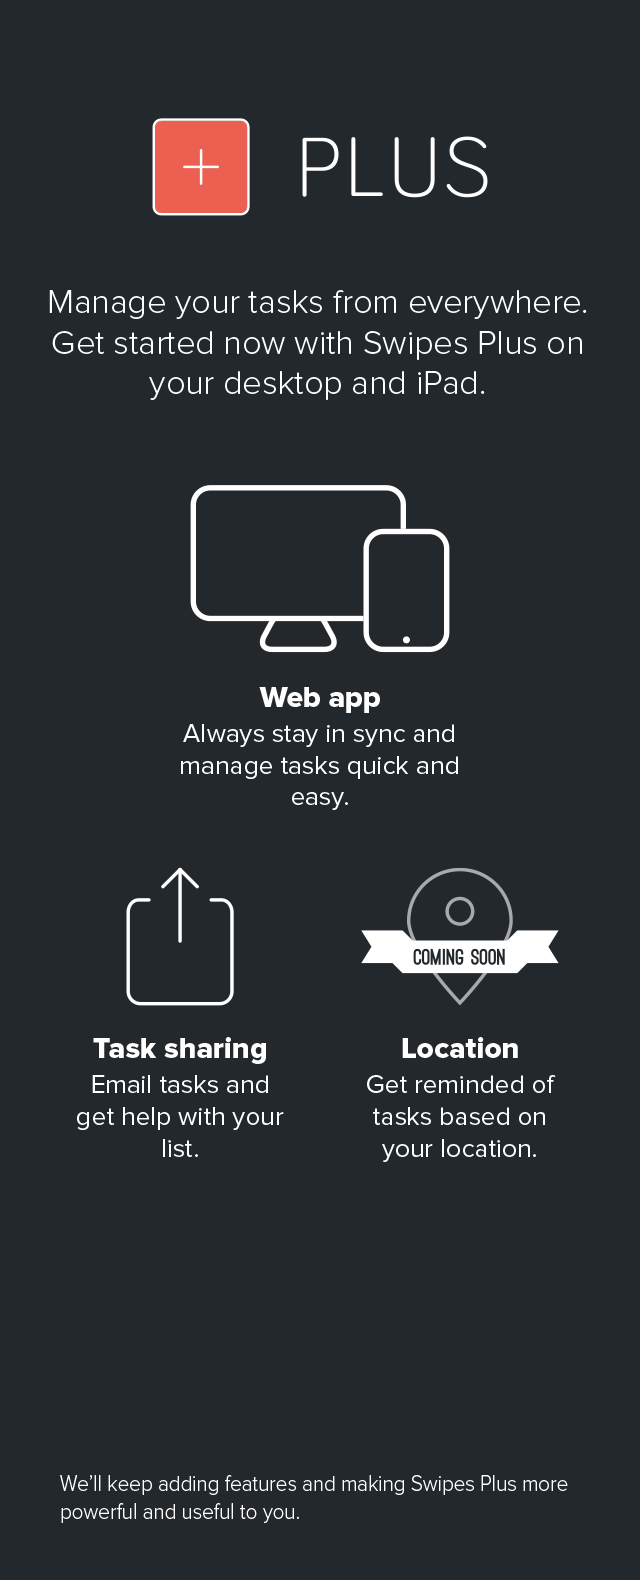
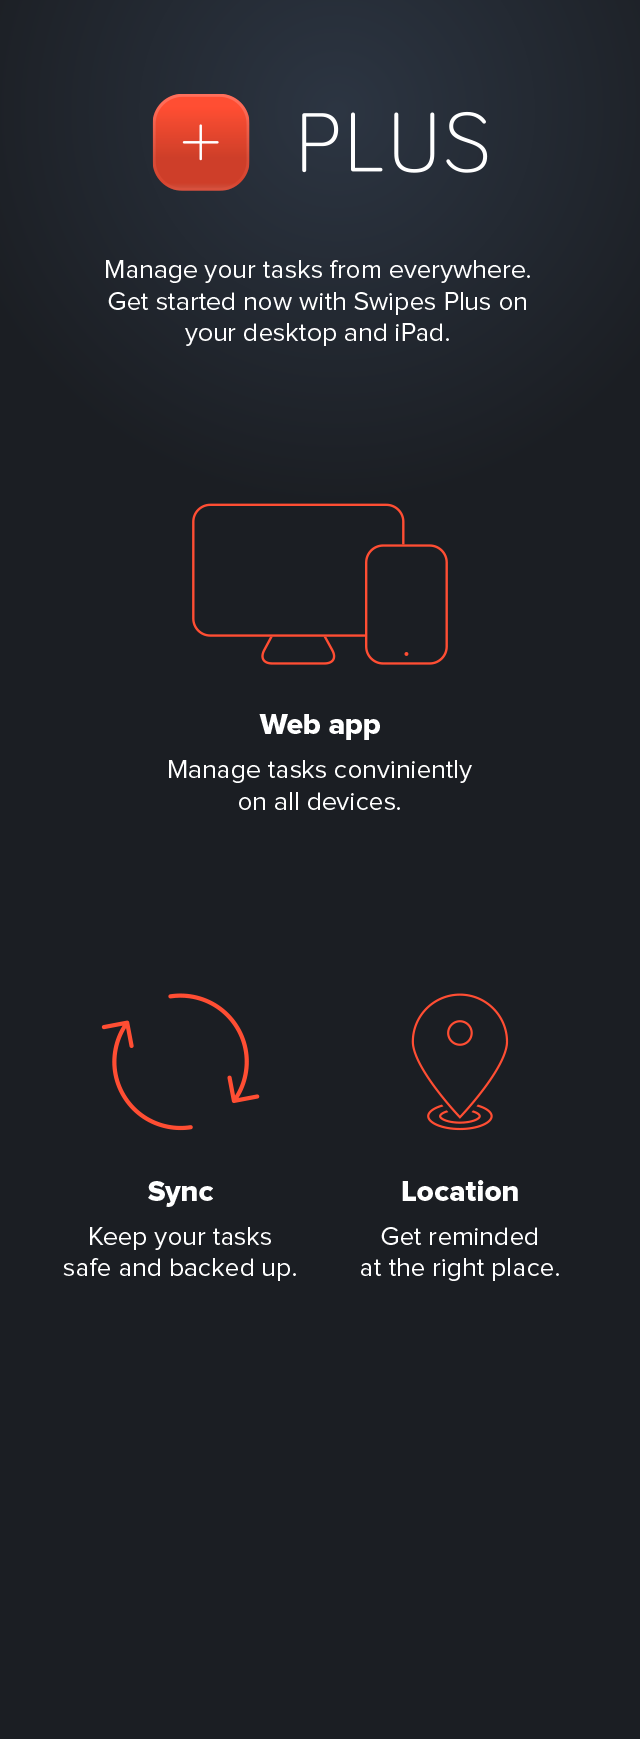
Upgrade controller new image + gradient button

diff --git a/Swipes/Classes/ViewControllers/Menu/MenuViewController.m b/Swipes/Classes/ViewControllers/Menu/MenuViewController.m
@@ -23,6 +23,7 @@
 
 #import "KPParseCoreData.h"
 #import "PlusAlertView.h"
+#import "NotificationHandler.h"
 
 #define kSettingsBlurColor retColor(gray(230, 0.5),gray(50, 0.4))
 #define kMenuButtonStartTag 4123
@@ -255,6 +256,46 @@
             
             break;
         }
+        case KPMenuButtonLocation:{
+            BOOL hasLocationOn = [(NSNumber*)[kSettings valueForSetting:SettingLocation] boolValue];
+            if(!hasLocationOn && ![kUserHandler isPlus]){
+                [ANALYTICS pushView:@"Location plus popup"];
+                [ANALYTICS tagEvent:@"Teaser Shown" options:@{@"Reference From":@"Location in Settings"}];
+                PlusAlertView *alert = [PlusAlertView alertWithFrame:self.view.bounds message:@"Location reminders is a Swipes Plus feature. Get reminded at the right place and time." block:^(BOOL succeeded, NSError *error) {
+                    [ANALYTICS popView];
+                    [BLURRY dismissAnimated:YES];
+                    if(succeeded){
+                        [ROOT_CONTROLLER upgrade];
+                    }
+                }];
+                BLURRY.blurryTopColor = kSettingsBlurColor;
+                [BLURRY showView:alert inViewController:self];
+            }
+            else{
+                UIColor *lampColor = hasLocationOn ? kLampOffColor : kLampOnColor;
+                NSNumber *newSettingValue = hasLocationOn ? @NO : @YES;
+                if(hasLocationOn){
+                    KPAlert *alert = [KPAlert alertWithFrame:self.view.bounds title:@"Turn off location" message:@"Location reminders won't be working." block:^(BOOL succeeded, NSError *error) {
+                        [BLURRY dismissAnimated:YES];
+                        if(succeeded){
+                            [NOTIHANDLER stopLocationServices];
+                            [kSettings setValue:newSettingValue forSetting:SettingLocation];
+                            [sender setLampColor:lampColor];
+                        }
+                    }];
+                    BLURRY.blurryTopColor = kSettingsBlurColor;
+                    [BLURRY showView:alert inViewController:self];
+                }
+                else{
+                    StartLocationResult result = [NOTIHANDLER startLocationServices];
+                    if(result == LocationStarted){
+                        [kSettings setValue:newSettingValue forSetting:SettingLocation];
+                        [sender setLampColor:lampColor];
+                    }
+                }
+            }
+            break;
+        }
         case KPMenuButtonSnoozes:{
             SnoozesViewController *snoozeVC = [[SnoozesViewController alloc] init];
             [self pushViewController:snoozeVC animated:YES];
@@ -353,6 +394,7 @@
             [self renderSubviews];
             break;
         }
+        
         default:
             break;
     }
@@ -449,7 +491,8 @@
 -(UIButton*)buttonForMenuButton:(KPMenuButtons)menuButton{
     MenuButton *button = [[MenuButton alloc] initWithFrame:[self frameForButton:menuButton] title:[self titleForMenuButton:menuButton] image:[self imageForMenuButton:menuButton highlighted:NO] highlightedImage:[self imageForMenuButton:menuButton highlighted:YES]];
     if(menuButton == KPMenuButtonNotifications || menuButton == KPMenuButtonLocation){
-        BOOL hasNotificationsOn = [(NSNumber*)[kSettings valueForSetting:SettingNotifications] boolValue];
+        KPSettings setting = (menuButton == KPMenuButtonNotifications) ? SettingNotifications : SettingLocation;
+        BOOL hasNotificationsOn = [(NSNumber*)[kSettings valueForSetting:setting] boolValue];
         UIColor *lampColor = hasNotificationsOn ? kLampOnColor : kLampOffColor;
         [button setLampColor:lampColor];
     }

diff --git a/Swipes/Classes/ViewControllers/Upgrade/UpgradeViewController.m b/Swipes/Classes/ViewControllers/Upgrade/UpgradeViewController.m
@@ -17,15 +17,15 @@
 #import "SlowHighlightIcon.h"
 #define kCloseButtonSize 60
 #define kLogoTopMargin 35
-#define kSubscribeButtonWidth 120
+#define kSubscribeButtonWidth 123
 #define kSubscribeButtonHeight 60
 #define kSubButtonSubHeight 35
-#define kSubButtonCornerRadius 6
-#define kSubButtonFont KP_REGULAR(21)
+#define kSubButtonCornerRadius 1
+#define kSubButtonFont KP_REGULAR(19)
 #define kSubButtonSubFont KP_REGULAR(14)
 #define kSubButtonTitleTopInset 18
-#define kSubButtonY 600
-
+#define kSubButtonY 700
+#define kRestoreSpacing 30
 
 
 @interface UpgradeViewController ()
@@ -56,11 +56,13 @@
     
     
     
+    UIImage *buttonBackground = [[UIImage imageNamed:@"btn-plus-background"] resizableImageWithCapInsets:UIEdgeInsetsMake(2, 2, 2, 2)];
+    
     CGFloat subButtonSpacing = ((scrollView.frame.size.width-(2*kSubscribeButtonWidth))/3);
     KPSubtitleButton *monthButton = [[KPSubtitleButton alloc] initWithFrame:CGRectMake(subButtonSpacing, kSubButtonY, kSubscribeButtonWidth, kSubscribeButtonHeight)];
     CGRectSetHeight(monthButton.subtitleLabel, kSubButtonSubHeight);
-    [monthButton setBackgroundImage:[color(235, 96, 80, 1) image] forState:UIControlStateNormal];
-    monthButton.layer.cornerRadius = kSubButtonCornerRadius;
+    [monthButton setBackgroundImage:buttonBackground forState:UIControlStateNormal];
+    //monthButton.layer.cornerRadius = kSubButtonCornerRadius;
     monthButton.titleLabel.font = kSubButtonFont;
     monthButton.subtitleLabel.font = kSubButtonSubFont;
     monthButton.titleEdgeInsets = UIEdgeInsetsMake(kSubButtonTitleTopInset, 0, 0, 0);
@@ -73,8 +75,8 @@
     KPSubtitleButton *yearButton = [[KPSubtitleButton alloc] initWithFrame:CGRectMake(2*subButtonSpacing + kSubscribeButtonWidth, kSubButtonY, kSubscribeButtonWidth, kSubscribeButtonHeight)];
     yearButton.subtitleLabel.text = @"yearly";
     CGRectSetHeight(yearButton.subtitleLabel, kSubButtonSubHeight);
-    [yearButton setBackgroundImage:[color(235, 96, 80, 1) image] forState:UIControlStateNormal];
-    yearButton.layer.cornerRadius = kSubButtonCornerRadius;
+    [yearButton setBackgroundImage:buttonBackground forState:UIControlStateNormal];
+    //yearButton.layer.cornerRadius = kSubButtonCornerRadius;
     yearButton.titleEdgeInsets = UIEdgeInsetsMake(kSubButtonTitleTopInset, 0, 0, 0);
     yearButton.layer.masksToBounds = YES;
     yearButton.titleLabel.font = kSubButtonFont;
@@ -94,7 +96,7 @@
     [self.restoreButton addTarget:self action:@selector(pressedRestoreButton:) forControlEvents:UIControlEventTouchUpInside];
     
     
-    CGRectSetY(self.restoreButton, CGRectGetMaxY(self.yearlyButton.frame) + 20);
+    CGRectSetY(self.restoreButton, CGRectGetMaxY(self.yearlyButton.frame) + kRestoreSpacing);
     CGRectSetCenterX(self.restoreButton, salesImage.frame.size.width/2);
     
     [salesImage addSubview:monthButton];
@@ -109,7 +111,7 @@
     self.scrollView = scrollView;
 
     UIButton *closeButton = [UIButton buttonWithType:UIButtonTypeCustom];
-    [closeButton setImage:[UIImage imageNamed:timageStringBW(@"round_cross")] forState:UIControlStateNormal];
+    [closeButton setImage:[UIImage imageNamed:@"round_cross_white"] forState:UIControlStateNormal];
     closeButton.frame = CGRectMake(self.view.bounds.size.width-kCloseButtonSize, (OSVER >= 7 ? 20 : 0), kCloseButtonSize, kCloseButtonSize);
     [closeButton addTarget:self action:@selector(pressedCloseButton:) forControlEvents:UIControlEventTouchUpInside];
     [self.view addSubview:closeButton];

diff --git a/Swipes/Classes/Handlers/NotificationHandler.m b/Swipes/Classes/Handlers/NotificationHandler.m
@@ -42,9 +42,9 @@ static NotificationHandler *sharedObject;
 }
 -(void)setFencing:(BOOL)fencing{
     if(_fencing != fencing){
+        if(fencing && !self.startedLocationServices) [self startLocationServices];
         if(!fencing) [KLLocation unregisterGeofencing];
         else [KLLocation registerGeofencing];
-        if(fencing) NSLog(@"fencing");
         _fencing = fencing;
     }
 }
@@ -76,7 +76,7 @@ static NotificationHandler *sharedObject;
         if(startedLocationServices){
             NSString *kitLocateKey = @"ebeea91e-563e-4b32-acf3-6505d9857789";
             [KitLocate initKitLocateWithDelegate:NOTIHANDLER APIKey:kitLocateKey];
-            //[KLLocation startSingleLocationWithDelegate:self andParams:@{KL_SP_INT_MAX_SECONDS_WAIT:@(4)}];
+            [KLLocation startSingleLocationWithDelegate:self andParams:@{KL_SP_INT_MAX_SECONDS_WAIT:@(4)}];
         }
         else [KitLocate shutKitLocate];
     }
@@ -94,13 +94,14 @@ static NotificationHandler *sharedObject;
     return localNotif;
 }
 -(void)updateLocalNotifications{
-    
+    /* Check for settings */
     BOOL hasNotificationsOn = [(NSNumber*)[kSettings valueForSetting:SettingNotifications] boolValue];
+    [self updateLocationUpdates];
     UIApplication *app = [UIApplication sharedApplication];
-    
     NSPredicate *todayPredicate = [NSPredicate predicateWithFormat:@"(schedule < %@ AND completionDate = nil)", [NSDate date]];
     NSInteger todayCount = [KPToDo MR_countOfEntitiesWithPredicate:todayPredicate];
     [[UIApplication sharedApplication] setApplicationIconBadgeNumber:todayCount];
+    
     if(!hasNotificationsOn){
         [app cancelAllLocalNotifications];
         return;
@@ -164,6 +165,8 @@ static NotificationHandler *sharedObject;
     }
 }
 -(void)updateLocationUpdates{
+    BOOL hasLocationOn = [(NSNumber*)[kSettings valueForSetting:SettingLocation] boolValue];
+    if(!hasLocationOn) [self stopLocationServices];
     [KLLocation deleteAllGeofences];
     NSPredicate *locationPredicate = [NSPredicate predicateWithFormat:@"(location != nil)"];
     NSArray *tasksWithLocation = [KPToDo MR_findAllWithPredicate:locationPredicate];

diff --git a/Swipes/Classes/Views/Alert/PlusAlertView.m b/Swipes/Classes/Views/Alert/PlusAlertView.m
@@ -57,7 +57,7 @@
         crossButton.imageEdgeInsets = kCrossButtonContentInset;
         [contentView addSubview:crossButton];
         
-        UIImage *buttonImage = [UIImage imageNamed:@"upgrade_plus_logo"];
+        UIImage *buttonImage = [UIImage imageNamed:timageStringBW(@"upgrade_plus_logo")];
         UIButton *topButton = [[UIButton alloc] initWithFrame:CGRectMake(0, 0, buttonImage.size.width, buttonImage.size.height)];
         [topButton setImage:buttonImage forState:UIControlStateNormal];
         CGRectSetY(topButton, DEFAULT_TITLE_HEIGHT-topButton.frame.size.height);
@@ -75,10 +75,10 @@
         [contentView addSubview:messageLabel];
         self.messageLabel = messageLabel;
         
+         UIImage *buttonBackground = [[UIImage imageNamed:@"btn-plus-background"] resizableImageWithCapInsets:UIEdgeInsetsMake(2, 2, 2, 2)];
         UIButton *moreButton = [[UIButton alloc] initWithFrame:CGRectMake(0, 0, kMoreButtonWidth, kMoreButtonHeight)];
-        [moreButton setBackgroundImage:[color(235, 96, 80, 1) image] forState:UIControlStateNormal];
+        [moreButton setBackgroundImage:buttonBackground forState:UIControlStateNormal];
         //[moreButton setBackgroundImage:[alpha(POPUP_BACKGROUND,0.5) image] forState:UIControlStateHighlighted];
-        moreButton.layer.cornerRadius = 3;
         moreButton.layer.masksToBounds = YES;
         moreButton.titleLabel.font = kMoreButtonFont;
         [moreButton setTitle:@"LEARN MORE" forState:UIControlStateNormal];

diff --git a/Swipes/Classes/Handlers/ThemeHandler.m b/Swipes/Classes/Handlers/ThemeHandler.m
@@ -34,7 +34,7 @@ static ThemeHandler *sharedObject;
     if(!sharedObject){
         sharedObject = [[ThemeHandler allocWithZone:NULL] init];
         sharedObject.currentTheme = [[NSUserDefaults standardUserDefaults] integerForKey:@"theme"];
-        [sharedObject brightnessDetector];
+        //[sharedObject brightnessDetector];
         //[sharedObject changeTheme];
     }
     return sharedObject;
@@ -66,6 +66,7 @@ static ThemeHandler *sharedObject;
     _currentTheme = currentTheme;
     [[NSUserDefaults standardUserDefaults] setInteger:currentTheme forKey:@"theme"];
     [[NSUserDefaults standardUserDefaults] synchronize];
+    
     if(OSVER >= 7) [[UITextField appearance] setTintColor:tcolor(TextColor)];
     [[NSNotificationCenter defaultCenter] postNotificationName:@"changed theme" object:nil];
     UIStatusBarStyle statusBarStyle = (THEMER.currentTheme == ThemeDark) ? UIStatusBarStyleLightContent : UIStatusBarStyleDefault;

diff --git a/Swipes/Classes/Models/KPParseCoreData.m b/Swipes/Classes/Models/KPParseCoreData.m
@@ -592,6 +592,10 @@ static KPParseCoreData *sharedObject;
 - (void)initialize
 {
     self.backgroundTask = UIBackgroundTaskInvalid;
+    NSURL *storeURL = [NSPersistentStore MR_urlForStoreName:@"swipes"];
+    if(![[NSFileManager defaultManager] fileExistsAtPath:storeURL.path])
+        [[NSUserDefaults standardUserDefaults] setInteger:ThemeLight forKey:@"theme"];
+    
     [self loadDatabase];
     notify(@"closing app", forceSync);
     notify(@"opening app", forceSync);
@@ -611,6 +615,7 @@ static KPParseCoreData *sharedObject;
 {
     @try {
         [MagicalRecord setupCoreDataStackWithAutoMigratingSqliteStoreNamed:@"swipes"];
+        
         //[NSTimer scheduledTimerWithTimeInterval:3 target:self selector:@selector(loadTest) userInfo:nil repeats:NO];
     }
     @catch (NSException *exception) {

diff --git a/Swipes/Classes/Views/SchedulePopup/SchedulePopup.m b/Swipes/Classes/Views/SchedulePopup/SchedulePopup.m
@@ -237,7 +237,7 @@ typedef enum {
             [ANALYTICS pushView:@"Location plus popup"];
             self.contentView.hidden = YES;
             [ANALYTICS tagEvent:@"Teaser Shown" options:@{@"Reference From":@"Location"}];
-            [PlusAlertView alertInView:window message:@"Location reminders is an upcoming feature in Swipes Plus. Check out the whole package." block:^(BOOL succeeded, NSError *error) {
+            [PlusAlertView alertInView:window message:@"Location reminders is a Swipes Plus feature. Get reminded at the right place and time." block:^(BOOL succeeded, NSError *error) {
                 [ANALYTICS popView];
                 self.helpLabel.hidden = NO;
                 self.contentView.hidden = NO;

diff --git a/Swipes/Classes/Handlers/SettingsHandler.m b/Swipes/Classes/Handlers/SettingsHandler.m
@@ -48,6 +48,9 @@ static SettingsHandler *sharedObject;
             break;
         case SettingNotifications:
             index = @"SettingNotifications";
+            break;
+        case SettingLocation:
+            index = @"SettingLocation";
     }
     return index;
 }
@@ -114,6 +117,8 @@ static SettingsHandler *sharedObject;
             return [[NSDate date] dateAtHours:kDefWeekendStartTime minutes:0];
         case SettingNotifications:
             return @YES;
+        case SettingLocation:
+            return @NO;
     }
 }
 -(id)valueForSetting:(KPSettings)setting{

diff --git a/Swipes/Classes/Handlers/SettingsHandler.h b/Swipes/Classes/Handlers/SettingsHandler.h
@@ -12,7 +12,8 @@ typedef enum {
     SettingWeekStart,
     SettingWeekendStart,
     SettingLaterToday,
-    SettingNotifications
+    SettingNotifications,
+    SettingLocation,
 } KPSettings;
 #import <Foundation/Foundation.h>
 #define kSettings [SettingsHandler sharedInstance]
